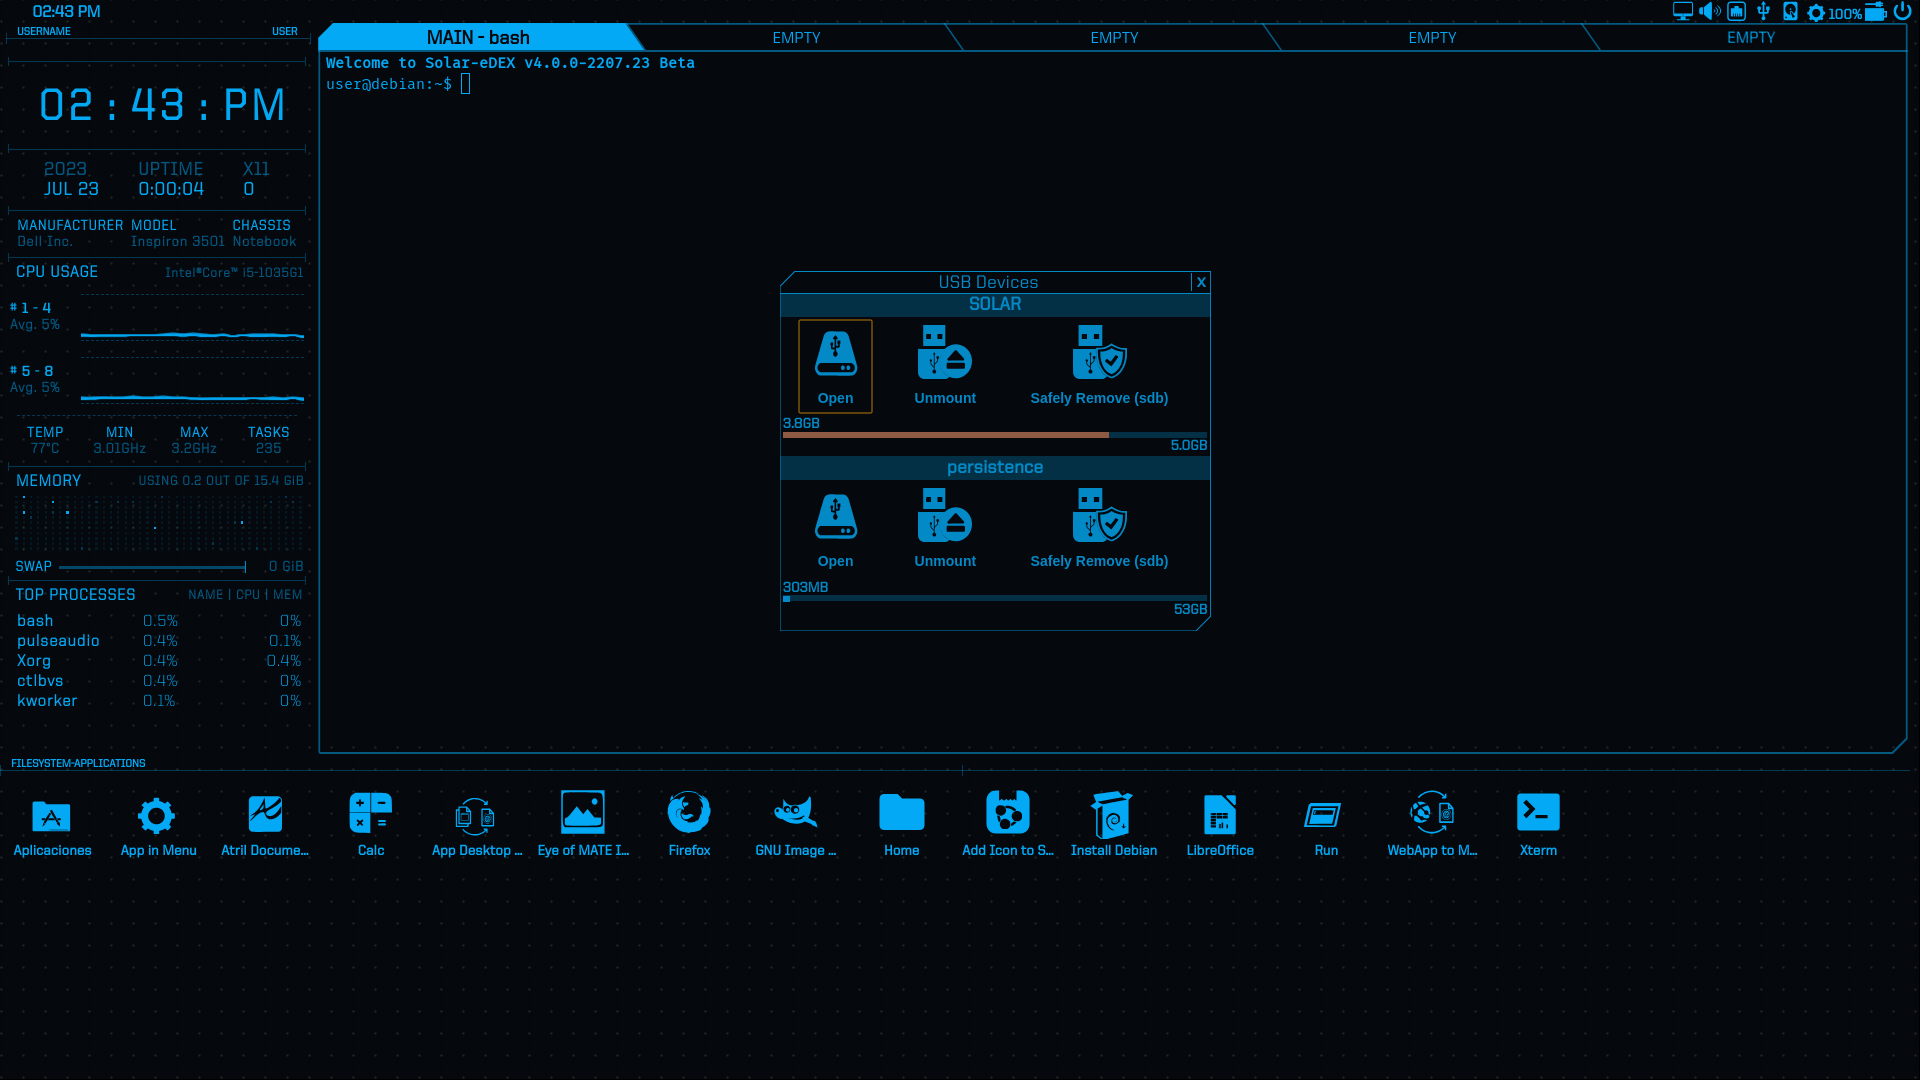
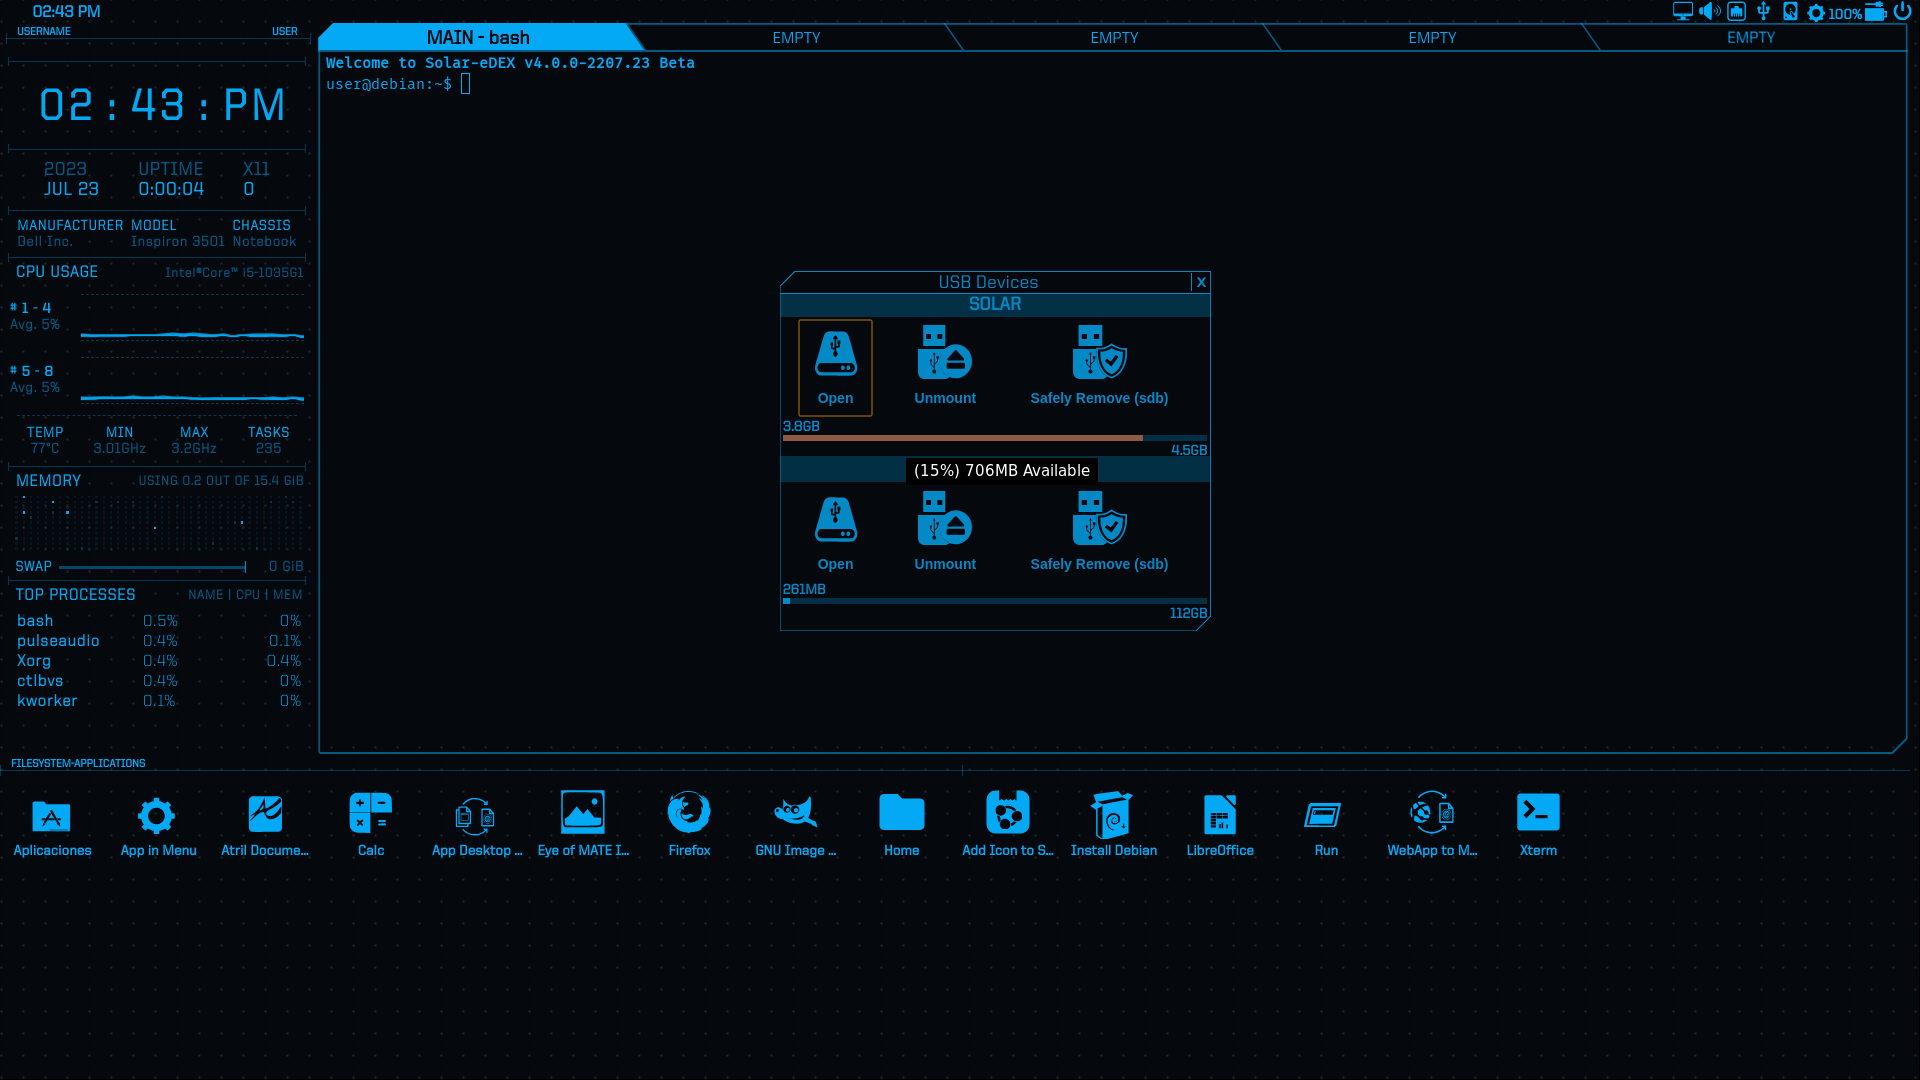
Agregar porcentaje disponible.

Changed region(s): [[0.4062, 0.3667, 0.625, 0.5806]]

diff --git a/solar-edex/src/_renderer.js b/solar-edex/src/_renderer.js
@@ -3702,19 +3702,21 @@ async function wnd_disks_Devices() {
                     </div>  
             </td></tr>
             <tr id="infbar_${disksDevices[key].dev}" class='cs_${disksDevices[key].root}'>
-                <td colspan="3" style="position: relative; top: -0.3vh;">
+                <td colspan="3" style="position: relative; top: -0.5vh;">
                     <div id="us_${disksDevices[key].dev}" style="font-style: normal; font-size: 1.3vh; line-height: 1.5vh; margin: 0vh; white-space: nowrap; align-self: center; text-align: left;">Not Mounted</div>
-                    <table id="st_${disksDevices[key].dev}" width="0%">
-                        <tr>
-                            <td style='align-items: center; background: rgba(var(--color_r), var(--color_g), var(--color_b), 0.0);'></td>
-                        </tr>
-                    </table>
-                    <table width="100%" style="position: relative; top: -0.35em;">
-                        <tr>
-                            <td style='align-items: center; background: rgba(var(--color_r), var(--color_g), var(--color_b), 0.3);'></td>
-                        </tr>
-                    </table>
-                    <div id="tl_${disksDevices[key].dev}" style="position: relative; top: -0.35em; font-style: normal; font-size: 1.3vh; line-height: 1.5vh; margin: 0vh; white-space: nowrap; align-self: center; text-align: right;">&nbsp;</div>
+                    <div style="position: relative; width: 100%; height: 0.35em;">
+                        <table id="st_${disksDevices[key].dev}" width="0%" style="position: absolute; top: 0em; height: 0.35em;">
+                            <tr>
+                                <td style='align-items: center; background: rgba(var(--color_r), var(--color_g), var(--color_b), 0.0);'></td>
+                            </tr>
+                        </table>
+                        <table width="100%" style="position: absolute; top: 0em; height: 0.35em;">
+                            <tr>
+                                <td style='align-items: center; background: rgba(var(--color_r), var(--color_g), var(--color_b), 0.3);'></td>
+                            </tr>
+                        </table>
+                    </div>    
+                    <div id="tl_${disksDevices[key].dev}" style="position: relative; top: 0.1em; font-style: normal; font-size: 1.3vh; line-height: 1.5vh; margin: 0vh; white-space: nowrap; align-self: center; text-align: right;">&nbsp;</div>
                 </td>
             </tr>`;         
 
@@ -3803,23 +3805,25 @@ async function wnd_disks_Devices() {
                     </div>  
                 </td></tr>
                 <tr id="infbar_${disksDevices[key].dev}" class='cs_${disksDevices[key].root}'>
-                    <td colspan="3" style="position: relative; top: ${numposision - 0.3}vh;">
+                    <td colspan="3" style="position: relative; top: ${numposision - 0.5}vh;">
                         <div id="us_${disksDevices[key].dev}" style="font-style: normal; font-size: 1.3vh; line-height: 1.5vh; margin: 0vh; white-space: nowrap; align-self: center; text-align: left;">Not Mounted</div>
-                        <table id="st_${disksDevices[key].dev}" width="0%">
-                            <tr>
-                                <td style='align-items: center; background: rgba(var(--color_r), var(--color_g), var(--color_b), 0.0);'></td>
-                            </tr>
-                        </table>
-                        <table width="100%" style="position: relative; top: -0.35em;">
-                            <tr>
-                                <td style='align-items: center; background: rgba(var(--color_r), var(--color_g), var(--color_b), 0.3);'></td>
-                            </tr>
-                        </table>
-                        <div id="tl_${disksDevices[key].dev}" style="position: relative; top: -0.35em; font-style: normal; font-size: 1.3vh; line-height: 1.5vh; margin: 0vh; white-space: nowrap; align-self: center; text-align: right;">&nbsp;</div>
+                        <div style="position: relative; width: 100%; height: 0.35em;">
+                            <table id="st_${disksDevices[key].dev}" width="0%" style="position: absolute; top: 0em; height: 0.35em;">
+                                <tr>
+                                    <td style='align-items: center; background: rgba(var(--color_r), var(--color_g), var(--color_b), 0.0);'></td>
+                                </tr>
+                            </table>
+                            <table width="100%" style="position: absolute; top: 0em; height: 0.35em;">
+                                <tr>
+                                    <td style='align-items: center; background: rgba(var(--color_r), var(--color_g), var(--color_b), 0.3);'></td>
+                                </tr>
+                            </table>
+                        </div>
+                        <div id="tl_${disksDevices[key].dev}" style="position: relative; top: 0.1em; font-style: normal; font-size: 1.3vh; line-height: 1.5vh; margin: 0vh; white-space: nowrap; align-self: center; text-align: right;">&nbsp;</div>
                     </td>
                 </tr>`; 
         }
-        numposision -= "1.2";
+        numposision -= "1";
         posision = numposision + "vh";
     }
     strTRs = strTRsSistem + strTRs;
@@ -4115,23 +4119,25 @@ async function wnd_usb_Devices(){
         </td>
     </tr>
     <tr id="infbar_${window.usbDevices[key].dev}" class='cs_${window.usbDevices[key].root}'>
-        <td colspan="3" style="position: relative; top: ${numposision - 0.3}vh;">
+        <td colspan="3" style="position: relative; top: ${numposision - 0.5}vh;">
             <div id="us_${window.usbDevices[key].dev}" style="font-style: normal; font-size: 1.3vh; line-height: 1.5vh; margin: 0vh; white-space: nowrap; align-self: center; text-align: left;">Not Mounted</div>
-            <table id="st_${window.usbDevices[key].dev}" width="0%">
-                <tr>
-                    <td style='align-items: center; background: rgba(var(--color_r), var(--color_g), var(--color_b), 0.0);'></td>
-                </tr>
-            </table>
-            <table width="100%" style="position: relative; top: -0.35em;">
-                <tr>
-                    <td style='align-items: center; background: rgba(var(--color_r), var(--color_g), var(--color_b), 0.3);'></td>
-                </tr>
-            </table>
-            <div id="tl_${window.usbDevices[key].dev}" style="position: relative; top: -0.35em; font-style: normal; font-size: 1.3vh; line-height: 1.5vh; margin: 0vh; white-space: nowrap; align-self: center; text-align: right;">&nbsp;</div>
+            <div style="position: relative; width: 100%; height: 0.35em;">
+                <table id="st_${window.usbDevices[key].dev}" width="0%" style="position: absolute; top: 0em; height: 0.35em;">
+                    <tr>
+                        <td style='align-items: center; background: rgba(var(--color_r), var(--color_g), var(--color_b), 0.0);'></td>
+                    </tr>
+                </table>
+                <table width="100%" style="position: absolute; top: 0em; height: 0.35em;">
+                    <tr>
+                        <td style='align-items: center; background: rgba(var(--color_r), var(--color_g), var(--color_b), 0.3);'></td>
+                    </tr>
+                </table>
+            </div>    
+            <div id="tl_${window.usbDevices[key].dev}" style="position: relative; top: 0.1em; font-style: normal; font-size: 1.3vh; line-height: 1.5vh; margin: 0vh; white-space: nowrap; align-self: center; text-align: right;">&nbsp;</div>
         </td>
     </tr>`;
 
-     numposision -= "1.2";
+     numposision -= "1";
      posision = numposision + "vh"; 
     }
     
@@ -5034,7 +5040,7 @@ function getSpaceDriverAll(drive){
                 if(source.length > 1){
                     source = source[1].split(" ").filter((item) => item !== '');
                     if(document.getElementById('infbar_' + source[0])){
-                        document.getElementById('infbar_' + source[0]).setAttribute("title",source[3] + "B Available");
+                        document.getElementById('infbar_' + source[0]).setAttribute("title",`(${100 - parseInt(source[4].replace("\n",""))}%) ` + source[3] + "B Available");
                         if(document.getElementById('us_' + source[0]))
                             document.getElementById('us_' + source[0]).innerHTML = "<b>" + source[2] + "B </b>";
                         if(document.getElementById('tl_' + source[0]))    
@@ -5059,7 +5065,7 @@ function getSpaceDriver(drive){
         if(source.length > 1){
             source = source[1].split(" ").filter((item) => item !== '');
             if(document.getElementById('infbar_' + source[0])){    
-                document.getElementById('infbar_' + source[0]).setAttribute("title",source[3] + "B Available");
+                document.getElementById('infbar_' + source[0]).setAttribute("title",`(${100 - parseInt(source[4].replace("\n",""))}%) ` + source[3] + "B Available");
                 if(document.getElementById('us_' + source[0])) 
                     document.getElementById('us_' + source[0]).innerHTML = "<b>" + source[2] + "B </b>";
                 if(document.getElementById('tl_' + source[0])) 
